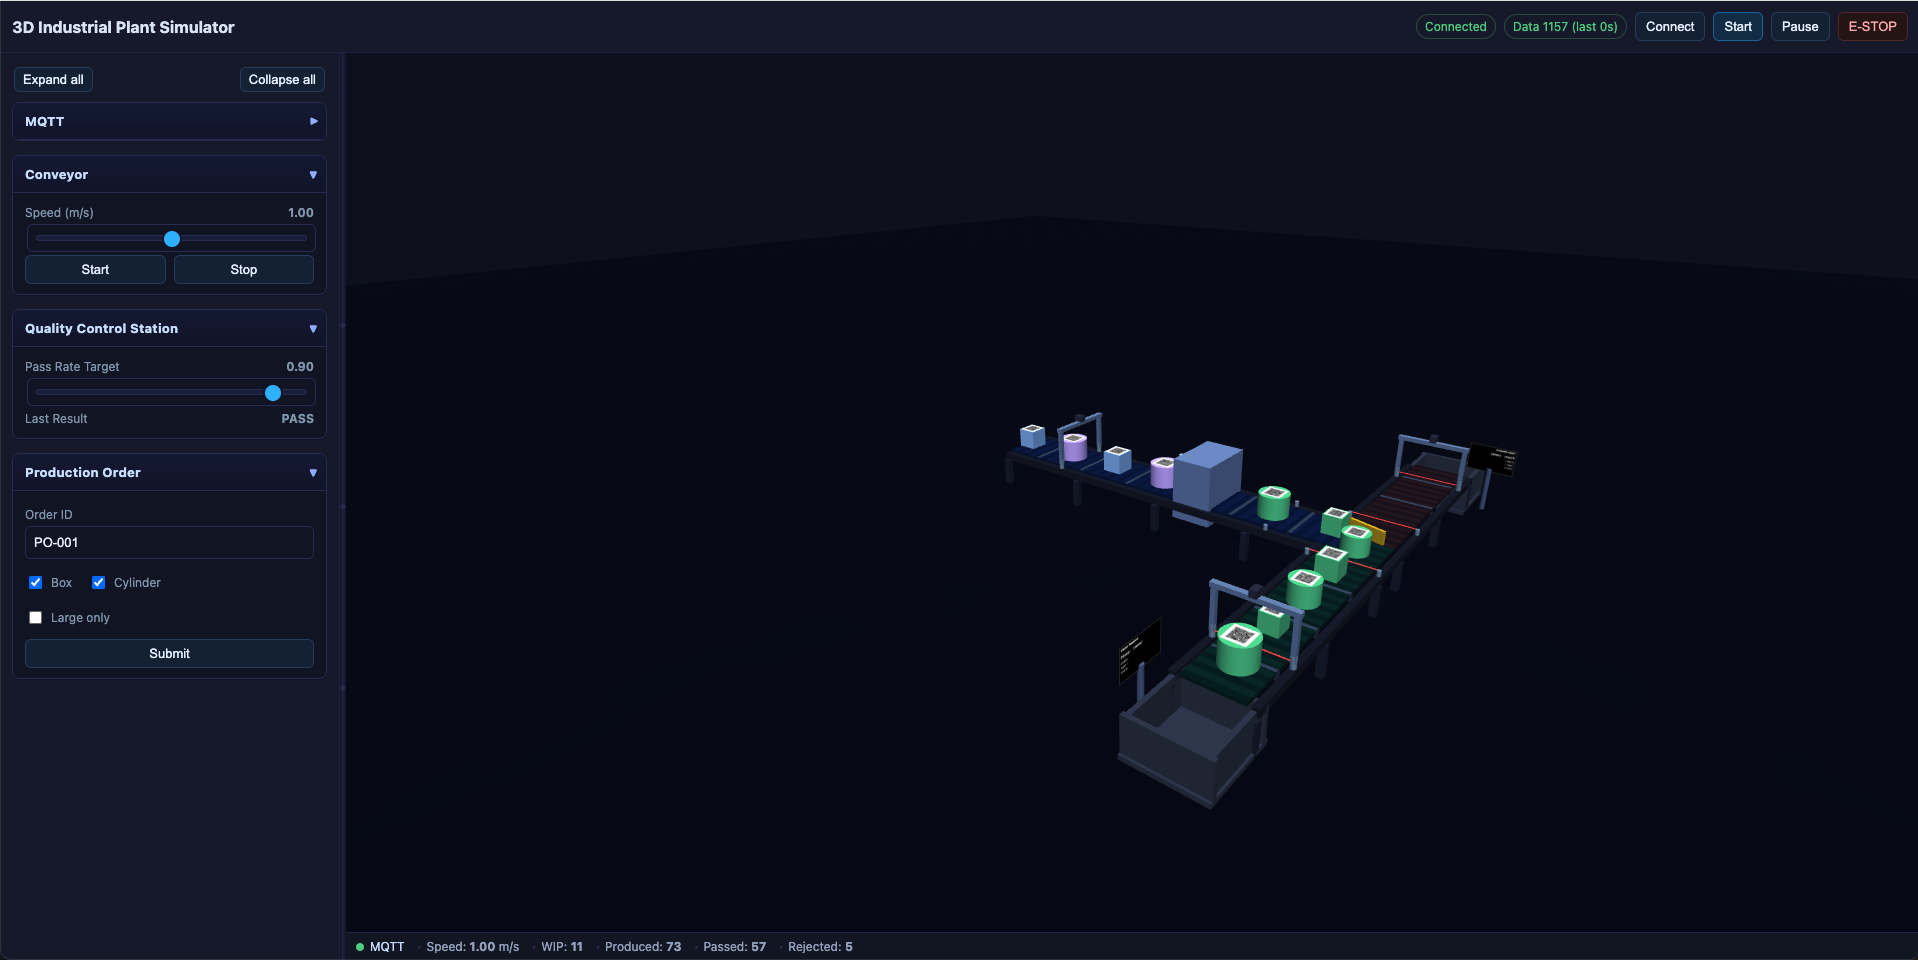
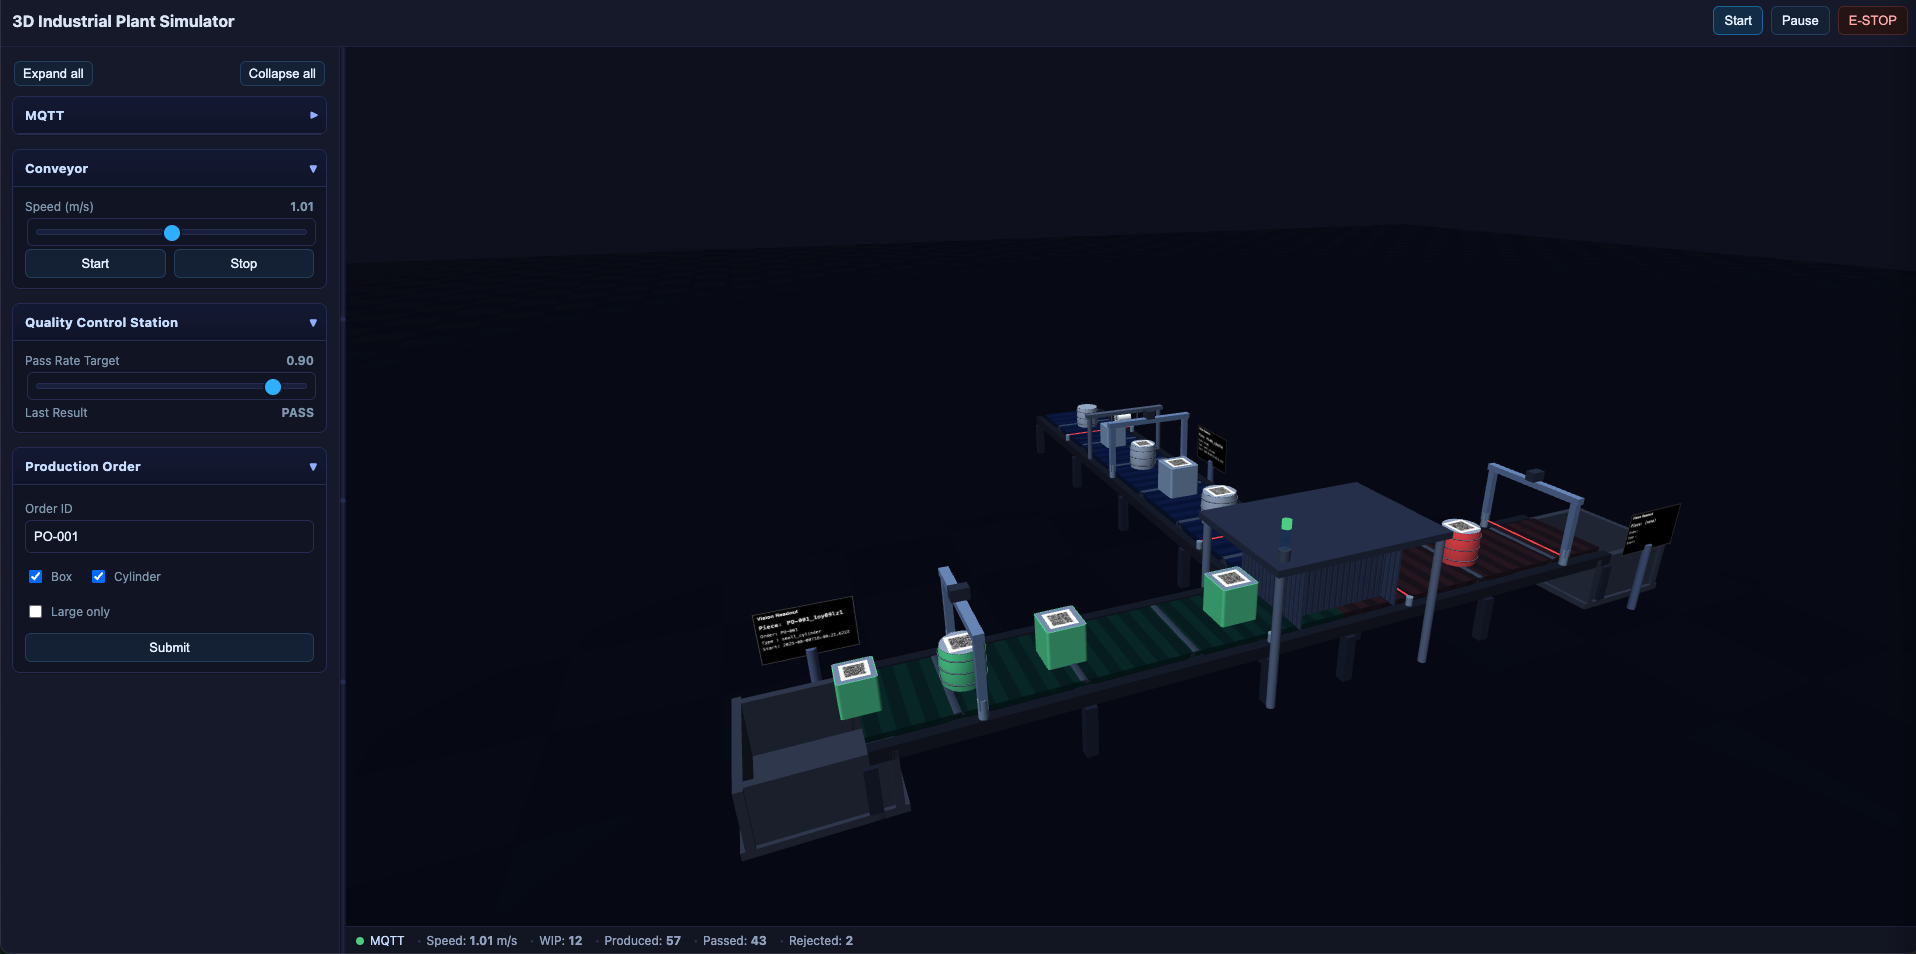
Enhance README and HTML: update labelling station description, adjust camera position, and improve vision gate sensor comments

diff --git a/index.html b/index.html
@@ -919,8 +919,9 @@
 
             scene = new THREE.Scene();
 
-            camera = new THREE.PerspectiveCamera(60, container.clientWidth / container.clientHeight, 0.1, 1000);
-            camera.position.set(9, 7, 12);
+            camera = new THREE.PerspectiveCamera(58, container.clientWidth / container.clientHeight, 0.1, 1000);
+            // Shift slightly to the right (increase X) and zoom in (reduce Z)
+            camera.position.set(11, 5, 5);
 
             controls = new THREE.OrbitControls(camera, renderer.domElement);
             controls.enableDamping = true;
@@ -1216,7 +1217,7 @@
             makeCatchBox('passCatch', 'beltB');
             makeCatchBox('failCatch', 'beltC');
 
-            // Vision gate sensors (A start, B end, C end)
+            // Vision gate sensors (A after QR station, B end, C end)
             function placeVisionGate(id, beltId, sPos) {
                 const belt = state.line.belts[beltId]; if (!belt) return null;
                 const group = new THREE.Group();
@@ -1259,9 +1260,103 @@
                 state.line.vision.push({ id, beltId, sPos, detectedId: null, group });
                 return group;
             }
-            placeVisionGate('vgA_start', 'beltA', 0.20);
+            placeVisionGate('vgA_start', 'beltA', 0.45);
             placeVisionGate('vgB_end', 'beltB', 0.80);
             placeVisionGate('vgC_end', 'beltC', 0.80);
+
+            // HMI near belt A (opposite side, around mid-length)
+            function makeHMIScreenNearVision(id, vgId) {
+                const vg = (state.line.vision || []).find(v => v.id === vgId);
+                if (!vg) return null;
+                const b = state.line.belts[vg.beltId]; if (!b) return null;
+                const yaw = Math.atan2(b.dir.z, b.dir.x);
+                const perp = new THREE.Vector3(-b.dir.z, 0, b.dir.x).normalize();
+                // Place near the middle of the conveyor length on the opposite side
+                const mid = b.start.clone().add(b.dir.clone().multiplyScalar(b.length * 0.5));
+                const side = mid.add(perp.multiplyScalar(-0.9));
+                const stand = new THREE.Group();
+                const pole = new THREE.Mesh(new THREE.CylinderGeometry(0.05, 0.05, 0.9, 12), new THREE.MeshStandardMaterial({ color: 0x4a5878 }));
+                pole.position.set(0, 0.45, 0);
+                const screen = new THREE.Mesh(
+                    new THREE.PlaneGeometry(0.9, 0.55),
+                    new THREE.MeshBasicMaterial({ color: 0xffffff, side: THREE.DoubleSide })
+                );
+                screen.position.set(0, 1.1, 0);
+                stand.add(pole, screen);
+                stand.position.copy(side);
+                stand.rotation.y = yaw;
+                scene.add(stand);
+                objs[id] = { group: stand, screen };
+                return objs[id];
+            }
+            makeHMIScreenNearVision('hmiA', 'vgA_start');
+
+            // Labelling station on belt A at 1/3 position (applies QR label)
+            function makeLabellingStationOnA() {
+                const belt = state.line.belts['beltA']; if (!belt) return;
+                const sPos = 1 / 3;
+                const p = belt.start.clone().add(belt.dir.clone().multiplyScalar(belt.length * sPos));
+                const yaw = Math.atan2(belt.dir.z, belt.dir.x);
+                const group = new THREE.Group();
+                // two uprights and a roll-based applicator over the belt
+                const railTop = 0.73; // same estimate used for sensors
+                // Taller gantry so it clears the tallest pieces comfortably
+                const h = 0.7;
+                const uprGeo = new THREE.CylinderGeometry(0.04, 0.04, h, 12);
+                const uprMat = new THREE.MeshStandardMaterial({ color: 0x6a7896, metalness: 0.3, roughness: 0.7 });
+                const beltW = 1, railOffset = 0.12, edge = beltW / 2 + railOffset;
+                const perp = new THREE.Vector3(-belt.dir.z, 0, belt.dir.x).normalize();
+                const pL = p.clone().add(perp.clone().multiplyScalar(edge));
+                const pR = p.clone().add(perp.clone().multiplyScalar(-edge));
+                const uL = new THREE.Mesh(uprGeo, uprMat); uL.position.set(pL.x, railTop + h / 2, pL.z);
+                const uR = new THREE.Mesh(uprGeo, uprMat); uR.position.set(pR.x, railTop + h / 2, pR.z);
+                const bar = new THREE.Mesh(new THREE.BoxGeometry(edge * 2 + 0.12, 0.06, 0.10), uprMat);
+                bar.position.set(p.x, railTop + h + 0.03, p.z);
+                bar.rotation.y = yaw + Math.PI / 2; // span across the belt
+                // label roll (paper) + core
+                const rollRadius = 0.10, rollWidth = 0.22;
+                const paperMat = new THREE.MeshStandardMaterial({ color: 0xf5f1e6, metalness: 0.0, roughness: 0.95 });
+                const coreMat = new THREE.MeshStandardMaterial({ color: 0xb0b6bf, metalness: 0.3, roughness: 0.5 });
+                const roll = new THREE.Mesh(new THREE.CylinderGeometry(rollRadius, rollRadius, rollWidth, 48), paperMat);
+                // Axis across the belt; face centerline
+                roll.rotation.set(Math.PI / 2, yaw + Math.PI / 2, 0);
+                // Place slightly upstream of the peel plate
+                const upstream = belt.dir.clone().multiplyScalar(-0.08);
+                const rollPos = p.clone().add(upstream);
+                roll.position.set(rollPos.x, bar.position.y - 0.12, rollPos.z);
+                const core = new THREE.Mesh(new THREE.CylinderGeometry(0.04, 0.04, rollWidth + 0.01, 32), coreMat);
+                core.rotation.copy(roll.rotation);
+                core.position.copy(roll.position);
+                // Single guide plate, parallel to the station cross bar
+                const guide = new THREE.Mesh(new THREE.BoxGeometry(edge * 0.8, 0.012, 0.10), new THREE.MeshStandardMaterial({ color: 0x8a95a8, metalness: 0.2, roughness: 0.6 }));
+                guide.position.set(p.x, roll.position.y - 0.10, p.z);
+                guide.rotation.set(0, yaw + Math.PI / 2, 0);
+                // Two supports connecting guide to the cross bar (left/right along belt perpendicular)
+                const halfGuide = (edge * 0.8) / 2;
+                const anchorOffset = halfGuide - 0.02; // small inset from edges
+                const startY = guide.position.y + 0.006; // guide top surface
+                const endY = bar.position.y - 0.03; // underside of bar
+                const startBase = new THREE.Vector3(guide.position.x, startY, guide.position.z);
+                const endBase = new THREE.Vector3(bar.position.x, endY, bar.position.z);
+                const sL = startBase.clone().add(perp.clone().multiplyScalar(-anchorOffset));
+                const sR = startBase.clone().add(perp.clone().multiplyScalar(anchorOffset));
+                const eL = endBase.clone().add(perp.clone().multiplyScalar(-anchorOffset));
+                const eR = endBase.clone().add(perp.clone().multiplyScalar(anchorOffset));
+                const makeRod = (a, b) => {
+                    const v = new THREE.Vector3().subVectors(b, a);
+                    const len = v.length();
+                    const rod = new THREE.Mesh(new THREE.CylinderGeometry(0.012, 0.012, len, 10), uprMat);
+                    rod.position.copy(new THREE.Vector3().addVectors(a, b).multiplyScalar(0.5));
+                    rod.quaternion.setFromUnitVectors(new THREE.Vector3(0, 1, 0), v.clone().normalize());
+                    return rod;
+                };
+                const supL = makeRod(sL, eL);
+                const supR = makeRod(sR, eR);
+                group.add(uL, uR, bar, roll, core, guide, supL, supR);
+                scene.add(group);
+                objs.labelStationA = { group, sPos };
+            }
+            makeLabellingStationOnA();
 
             // Items container
             objs.itemsGroup = new THREE.Group();
@@ -1463,6 +1558,7 @@
                 ctx.fillText('Start: ' + (t ? (t.start_timestamp || '') : ''), 10, 115);
                 h.tex.needsUpdate = true;
             }
+            updateHMIScreen('hmiA', 'vgA_');
             updateHMIScreen('hmiB', 'vgB_');
             updateHMIScreen('hmiC', 'vgC_');
 
@@ -1579,19 +1675,7 @@
             const sizeClass = size >= 0.42 ? 'large' : 'small';
             const shapeName = isCylinder ? 'cylinder' : 'box';
             const tag = { pieceID: uid, orderID: po.orderId || '', type: `${sizeClass}_${shapeName}`, start_timestamp: startTs };
-            // Add QR decal on top
-            try {
-                const qrTex = makeQRTexture(JSON.stringify(tag), 256);
-                const qrSize = size * 0.7;
-                const qrPlane = new THREE.Mesh(
-                    new THREE.PlaneGeometry(qrSize, qrSize),
-                    new THREE.MeshBasicMaterial({ map: qrTex, transparent: true, depthWrite: false })
-                );
-                const h = (mesh.userData.dim && mesh.userData.dim.height) ? mesh.userData.dim.height : size;
-                qrPlane.position.set(0, h / 2 + 0.002, 0);
-                qrPlane.rotation.x = -Math.PI / 2;
-                mesh.add(qrPlane);
-            } catch { }
+            // NOTE: Do not add QR at spawn; it will be applied at the QR station on belt A
             const colorClone = new THREE.Color();
             if (mesh.children[0] && mesh.children[0].material && mesh.children[0].material.color) {
                 colorClone.copy(mesh.children[0].material.color);
@@ -1633,6 +1717,28 @@
                 if (!b) { items.splice(i, 1); continue; }
                 const v = b.speed;
                 it.s += (v * dt) / Math.max(0.1, b.length);
+                // Apply QR at the Labelling station on belt A (at ~1/3)
+                if (it.beltId === 'beltA' && objs.labelStationA && !it.qrApplied) {
+                    if (Math.abs(it.s - objs.labelStationA.sPos) < 0.02) {
+                        try {
+                            const qrTex = makeQRTexture(JSON.stringify(it.tag), 256);
+                            const qrSize = it.size * 0.7;
+                            const qrPlane = new THREE.Mesh(
+                                new THREE.PlaneGeometry(qrSize, qrSize),
+                                new THREE.MeshBasicMaterial({ map: qrTex, transparent: true, depthWrite: false })
+                            );
+                            const h = it.height || it.size;
+                            qrPlane.position.set(0, h / 2 + 0.002, 0);
+                            qrPlane.rotation.x = -Math.PI / 2;
+                            it.mesh.add(qrPlane);
+                            it.qrApplied = true;
+                            // Publish applied QR payload to MQTT
+                            const payload = Object.assign({ station: 'label01', applied_timestamp: nowISO() }, it.tag || {});
+                            publishBundle(topic('production', 'label01', 'events', 'applied'), payload);
+                        } catch { }
+                    }
+                }
+
                 // Evaluate quality earlier under QC gantry, but do not move diverter yet
                 // Evaluate quality near the intersection (end of beltA)
                 if (it.s >= 0.90 && it.beltId === 'beltA' && !it.evaluated) {

diff --git a/README.md b/README.md
@@ -13,11 +13,11 @@
 ## Highlights
 - Detailed conveyors (main + two branches) with moving belt textures and diverter gate
 - Items with unique IDs prefixed by order ID, e.g. `PO-001_ab12cd34`
-- Real, scannable QR code decal on each piece (qrcode-generator)
+- In-line Labelling station on conveyor A (~1/3 length) applies a real, scannable QR label (qrcode-generator)
 - Sensors:
   - Conveyor speed (analog)
   - Photoelectric sensors (start/end on each belt) with visible beam
-  - Vision gates (A start, B end, C end) reading the QR payload
+  - Vision gates (A start after label station, B end, C end) reading the QR payload
   - QC proximity and last result
 - Production Order widget: set `orderID`, choose Box/Cylinder and Large only — affects spawned parts only
 - MQTT over WebSockets with JSON payloads AND per-field subtopics
@@ -47,6 +47,8 @@ chmod +x ./start_mosquitto.sh
 
 Then click “Connect” in the app (defaults to `ws://localhost:9001`, with fallback to a public EMQX WS broker).
 
+Note: The Connect/Disconnect button lives in the sidebar under the MQTT widget; the top bar is kept minimal.
+
 ## Controls at a glance
 - Start / Pause / E‑STOP
 - Conveyor speed slider (also publishes a setpoint topic)
@@ -57,7 +59,7 @@ Then click “Connect” in the app (defaults to `ws://localhost:9001`, with fal
   - `Submit` applies to future spawns only
 
 ## Item identity & QR payload
-Each spawned piece carries a tag and a matching QR code encoding this JSON:
+Each spawned piece carries a tag immediately, and receives its QR label at the Labelling station on belt A. The QR encodes this JSON:
 
 ```json
 {
@@ -68,7 +70,7 @@ Each spawned piece carries a tag and a matching QR code encoding this JSON:
 }
 ```
 
-The visual QR is generated client-side and is scannable with standard QR readers.
+The visual QR is generated client-side and is scannable with standard QR readers. Vision gates publish the latest tag for an item under the sensor.
 
 ## MQTT topics
 Base topic is configurable (default `plant`). JSON payloads are published at the base topic and each field is also published to subtopics (base/<field>) as scalars.
@@ -85,7 +87,7 @@ Sensors (examples):
   { "timestamp": "…", "value": 1, "unit": "bool", "quality": "good", "alarm_state": "normal" }
   ```
 
-- Vision gates: `plant/production/beltA/sensors/vision_start` (and `vision_end` on B/C)
+- Vision gates: `plant/production/beltA/sensors/vision_start` (A is positioned downstream of the Labelling station) and `plant/production/beltB|beltC/sensors/vision_end`
   ```json
   { "timestamp": "…", "pieceID": "PO-001_ab12cd34", "orderID": "PO-001", "type": "large_cylinder", "start_timestamp": "…" }
   ```
@@ -96,6 +98,19 @@ Other:
 - QC last result: `plant/production/qc01/sensors/quality`
 - E‑STOP status: `plant/safety/emergency_stop/sensors/status`
 - Heartbeat: `plant/system/simulator/metrics/heartbeat`
+
+Events:
+- Label applied (at Labelling station): `plant/production/label01/events/applied`
+  ```json
+  {
+    "pieceID": "PO-001_ab12cd34",
+    "orderID": "PO-001",
+    "type": "large_cylinder",
+    "start_timestamp": "…",
+    "station": "label01",
+    "applied_timestamp": "…"
+  }
+  ```
 
 Actuators (subscribed):
 - Conveyor speed setpoint: `plant/production/conveyor01/actuators/speed_setpoint`
@@ -111,7 +126,7 @@ Actuators (subscribed):
 ## Troubleshooting
 - Blank page: ensure WebGL is enabled and use a local server (file:// won’t load modules consistently).
 - MQTT won’t connect: start the Dockerized Mosquitto or use another WS broker; check CORS and WS URL.
-- Vision payloads are empty: make sure items are passing through the gate; adjust speed if needed.
+- Vision payloads are empty: make sure items have passed the Labelling station on A before the A vision gate; adjust speed if needed.
 
 ## License
 This project is provided as-is for demo/education purposes.
